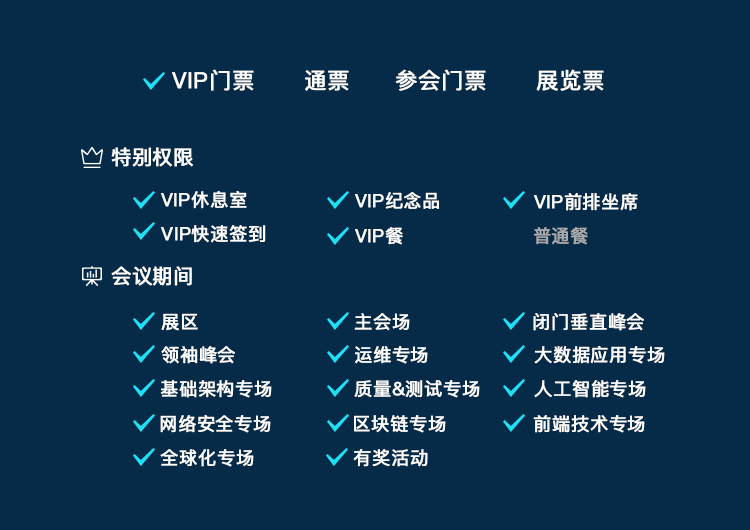
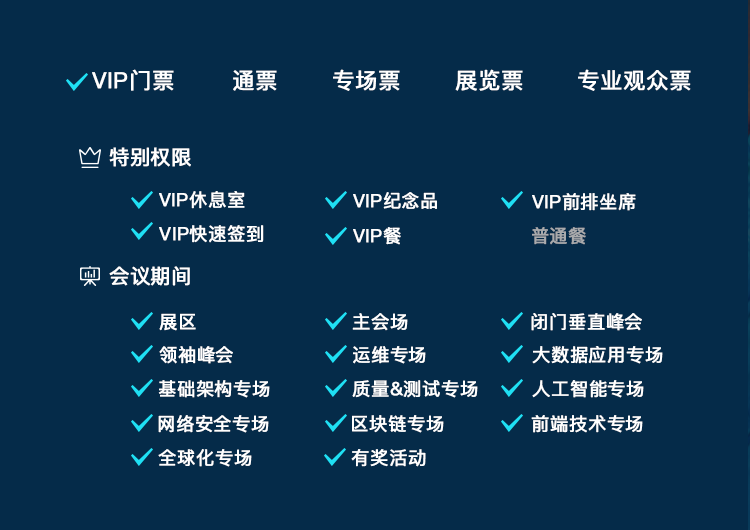
我的门票替换图片

diff --git a/src/pages/mihuiticketdetail/index.js b/src/pages/mihuiticketdetail/index.js
@@ -8,6 +8,8 @@ import vip from '../../images/vip.png'
 import zhuanye from '../../images/专业观众.png'
 import dahui from '../../images/通票.png'
 import zhanlan from '../../images/展览票.png'
+import zhuanchang  from '../../images/专场票.png'
+
 import '../ticketdetail/index.scss'
 import JsBarcode from 'jsbarcode'
 // import storage from '../../helper/storage'
@@ -23,6 +25,8 @@ let getBgByTicket = (ticket) => {
       return dahui;
     case '展览票':
       return zhanlan;
+    case '专场票':
+      return zhuanchang;
   }
 }
 

diff --git a/src/pages/ticketdetail/index.js b/src/pages/ticketdetail/index.js
@@ -7,6 +7,7 @@ import vip from '../../images/vip.png'
 import zhuanye from '../../images/专业观众.png'
 import dahui from '../../images/通票.png'
 import zhanlan from '../../images/展览票.png'
+import zhuanchang  from '../../images/专场票.png'
 import './index.scss'
 import JsBarcode from 'jsbarcode'
 import storage from '../../helper/storage'
@@ -23,6 +24,8 @@ let getBgByTicket = (ticket) => {
       return dahui;
     case '展览票':
       return zhanlan;
+    case '专场票':
+      return zhuanchang;
   }
 }
 
